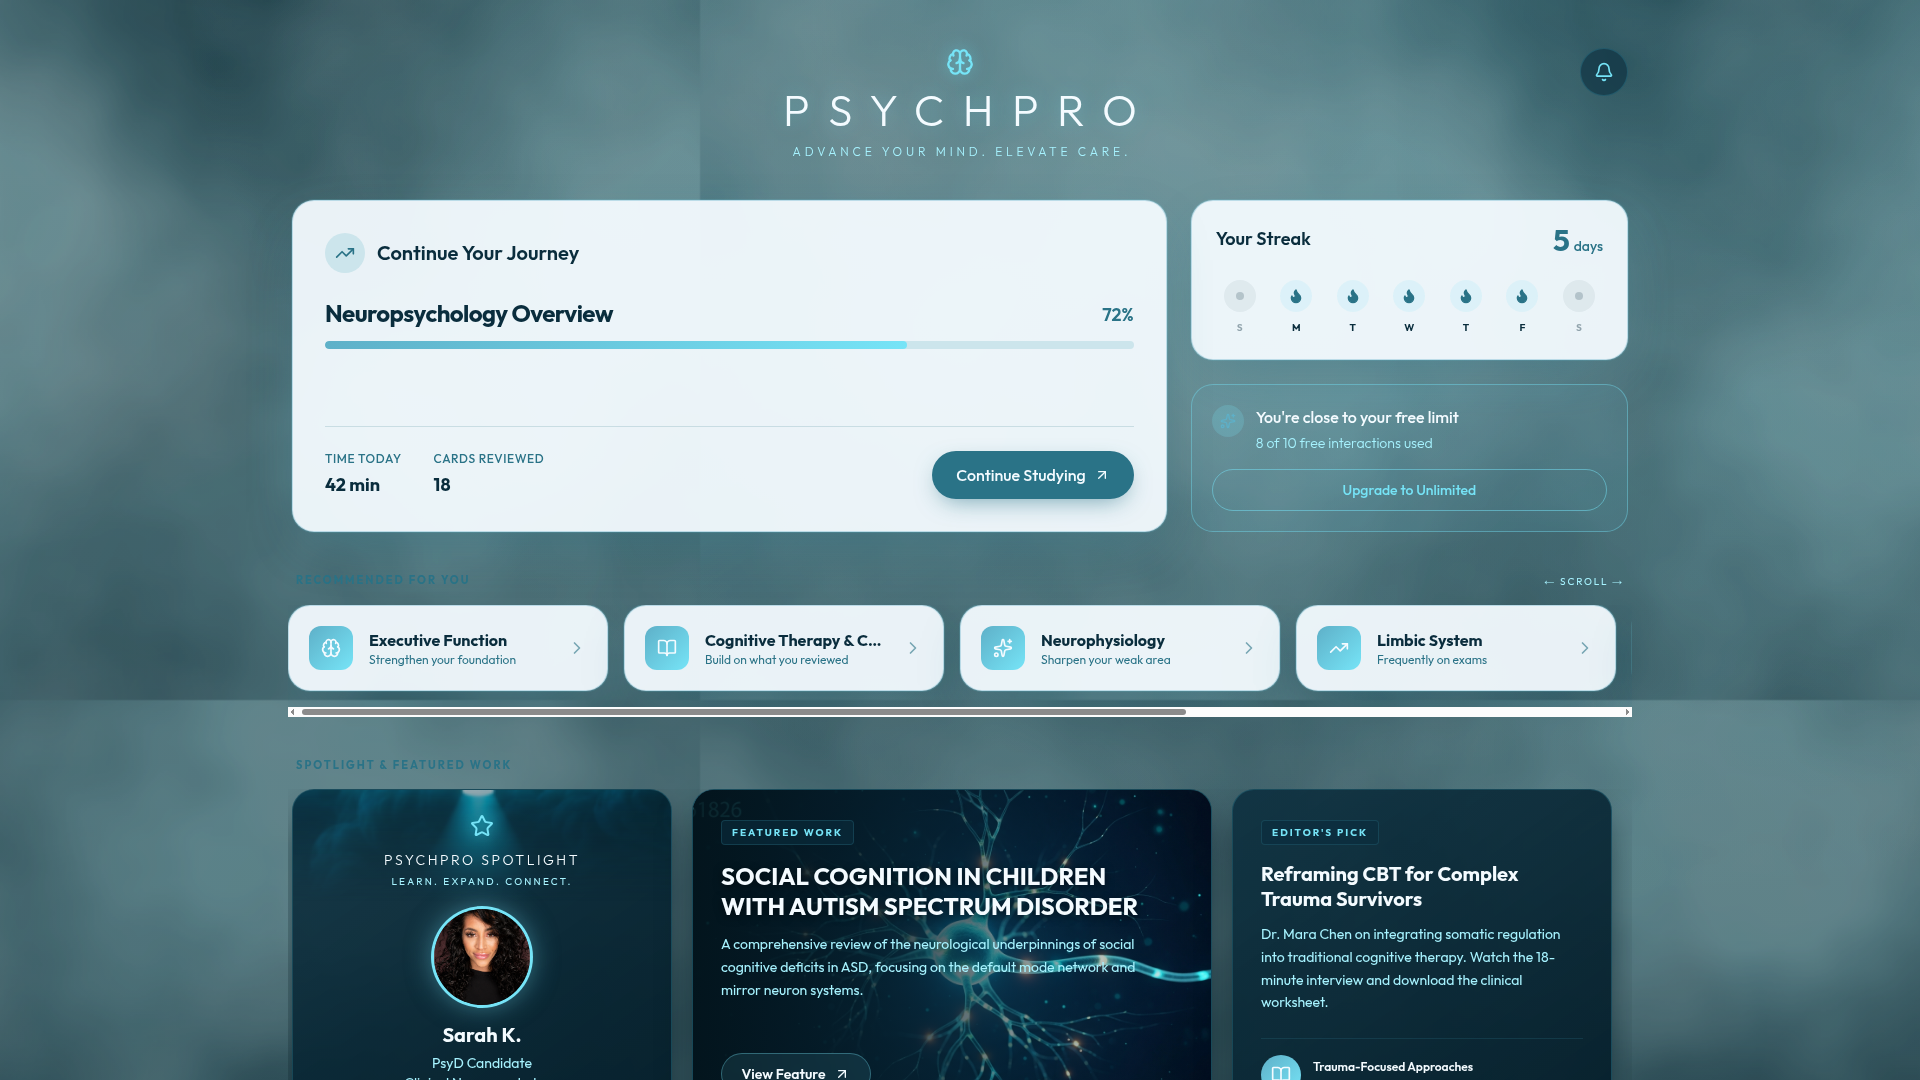
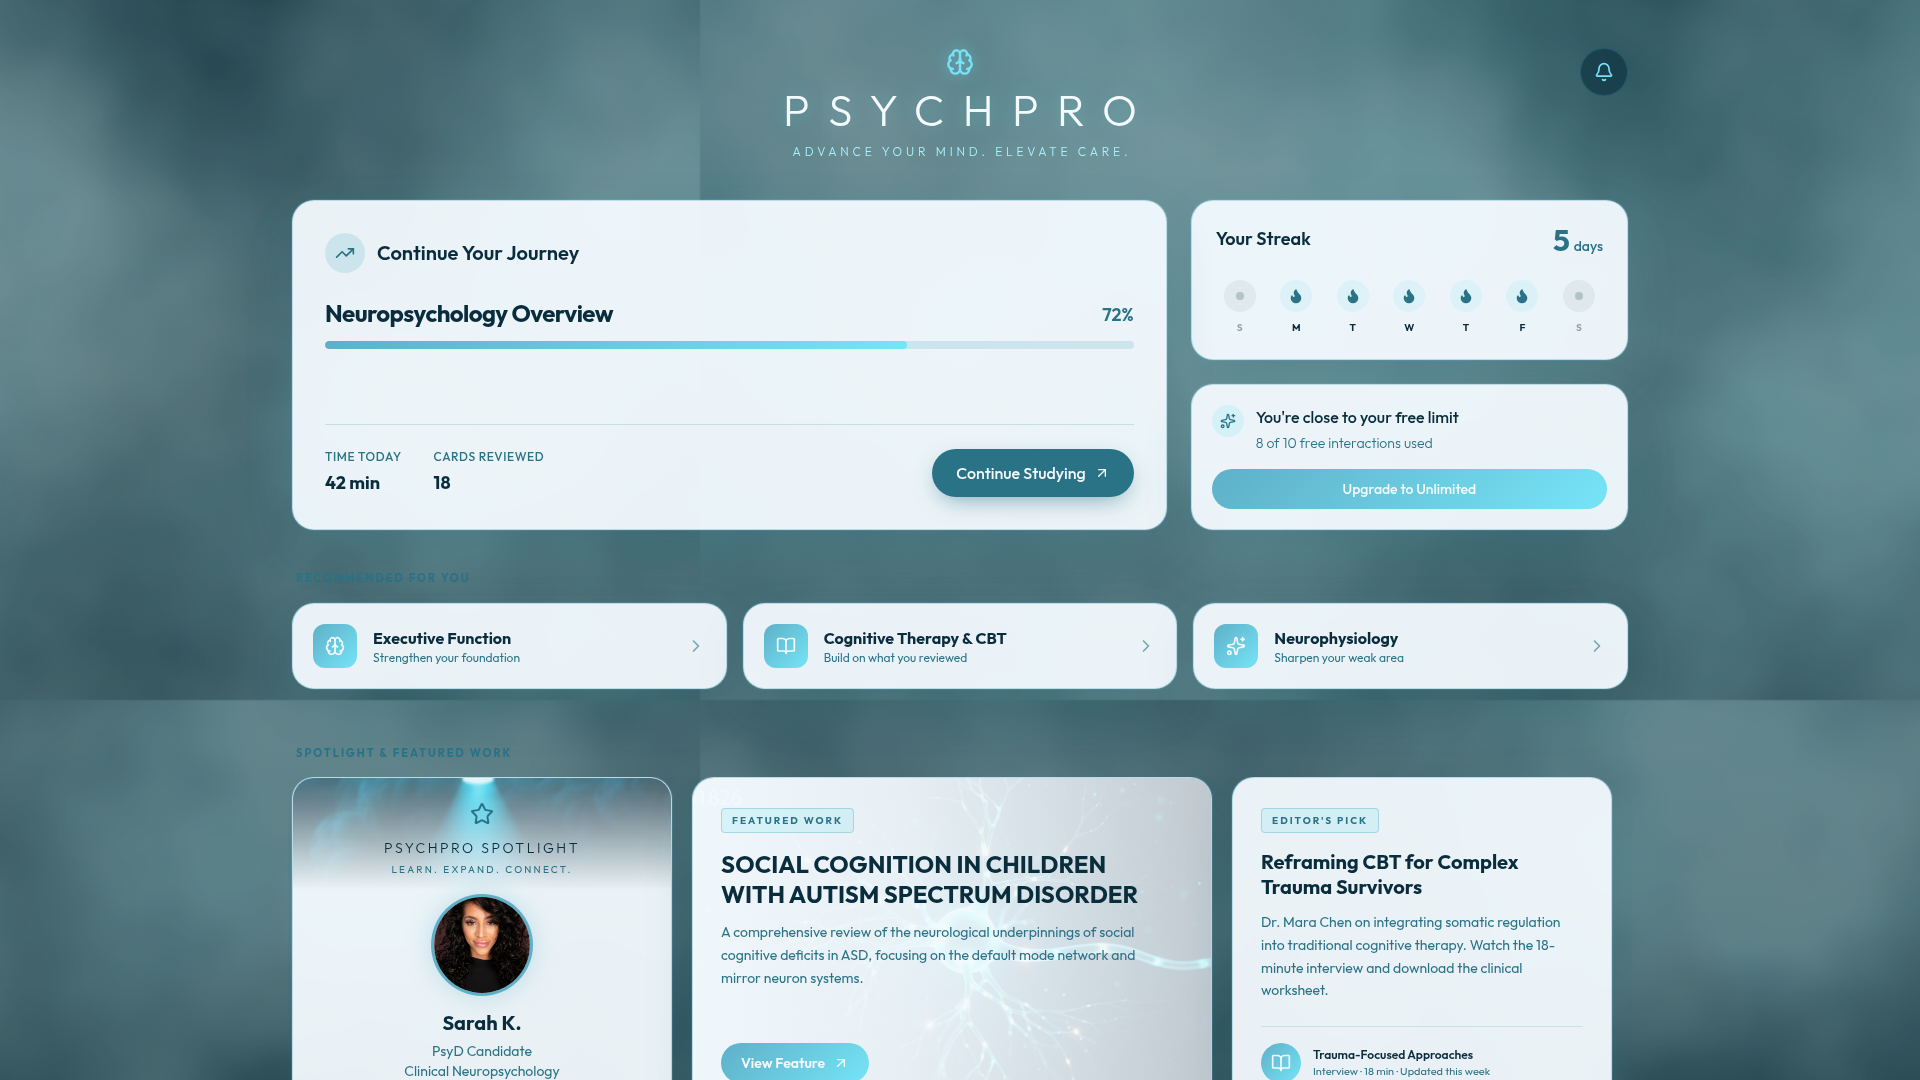
Task #70: Bold-polish landing + dashboard variants on canvas
Created two single-file mockup variants of the PsychPro app in the
mockup-sandbox artifact and placed them as live iframes on the canvas:
  - artifacts/mockup-sandbox/src/components/mockups/psychpro-polished/Landing.tsx
  - artifacts/mockup-sandbox/src/components/mockups/psychpro-polished/Dashboard.tsx

Landing variant: brighter cloud-tile filter handoff, new "all-in-one
platform" body tagline, 4-up frosted feature cards (equal-height),
compressed trust-stats hairline band, upgraded testimonial card
(portrait left, quote right, cyan glow border), polished glass nav and
CTA pills.

Dashboard variant: removed "Welcome back" greeting, promoted PSYCHPRO
editorial wordmark anchor with brain icon, lighter scrim over matching
cloud-tile filter, 2-col above-the-fold (Continue left, Streak+banner
stack right), 3-up Recommended row, Spotlight strip with neuron bg,
analytics chart, recent activity, achievements.

Canvas: two 1280x900 iframes placed to the right of the user-selected
PsychPro frame, 80px gap, top-aligned. Both presented via
presentArtifact.

Production code untouched (artifacts/neuronotes/* not modified) per
task scope. STUDY_PALETTE-only colors after architect review.

Pre-existing artifacts/api-server EADDRINUSE failure is unrelated.

diff --git a/artifacts/mockup-sandbox/src/components/mockups/psychpro-polished/Dashboard.tsx b/artifacts/mockup-sandbox/src/components/mockups/psychpro-polished/Dashboard.tsx
@@ -21,14 +21,6 @@ import {
 import { STUDY_PALETTE as P } from "@neuronotes/lib/study-theme";
 import { LightCard, LIGHT_CARD_STYLE as CARD_LIGHT } from "./_shared/LightCard";
 
-const CARD_DARK = {
-  background:
-    "linear-gradient(145deg, rgba(10,45,61,0.85), rgba(6,31,43,0.96))",
-  border: `1px solid rgba(42,115,135,0.45)`,
-  boxShadow: "0 20px 40px -10px rgba(3,21,29,0.8)",
-  borderRadius: 22,
-} as const;
-
 const BRAND_GRADIENT = `linear-gradient(135deg, ${P.teal}, ${P.surf})`;
 
 function SectionLabel({ children }: { children: React.ReactNode }) {
@@ -289,31 +281,24 @@ export function Dashboard() {
             </div>
 
             {/* Banner */}
-            <div
-              className="p-5 flex flex-col gap-4"
-              style={{
-                background: "rgba(94,176,200,.12)",
-                border: "1px solid rgba(118,228,247,.4)",
-                borderRadius: 22,
-              }}
-            >
+            <LightCard className="p-5 flex flex-col gap-4">
               <div className="flex gap-3">
                 <div
                   className="w-8 h-8 rounded-full flex items-center justify-center shrink-0"
                   style={{ background: `${P.surf}33` }}
                 >
-                  <Sparkles className="w-4 h-4" style={{ color: P.teal }} />
+                  <Sparkles className="w-4 h-4" style={{ color: P.tealDeep }} />
                 </div>
                 <div>
                   <h4
                     className="font-medium mb-1"
-                    style={{ color: P.cloud }}
+                    style={{ color: P.surface }}
                   >
                     You're close to your free limit
                   </h4>
                   <p
                     className="text-sm font-light"
-                    style={{ color: P.mist }}
+                    style={{ color: P.tealDeep }}
                   >
                     8 of 10 free interactions used
                   </p>
@@ -322,36 +307,22 @@ export function Dashboard() {
               <button
                 className="w-full py-2.5 rounded-full font-medium text-sm transition-colors"
                 style={{
-                  border: `1px solid ${P.surf}80`,
-                  color: P.surf,
-                  background: "transparent",
+                  background: BRAND_GRADIENT,
+                  color: P.cloud,
                 }}
               >
                 Upgrade to Unlimited
               </button>
-            </div>
+            </LightCard>
           </div>
         </div>
 
         {/* Recommended — horizontal-scroll carousel */}
         <div className="mb-10">
-          <div className="flex items-end justify-between mb-4 ml-1 pr-1">
-            <h3
-              className="text-[11px] font-bold uppercase"
-              style={{ color: P.tealDeep, letterSpacing: "0.18em" }}
-            >
-              Recommended For You
-            </h3>
-            <span
-              className="text-[10px] uppercase"
-              style={{ color: P.mist, letterSpacing: "0.18em" }}
-            >
-              ← scroll →
-            </span>
-          </div>
+          <SectionLabel>Recommended For You</SectionLabel>
 
           <div
-            className="flex gap-4 overflow-x-auto pb-4 -mx-1 px-1 snap-x snap-mandatory"
+            className="grid grid-cols-1 sm:grid-cols-2 lg:grid-cols-3 gap-4 lg:overflow-visible overflow-x-auto pb-4 snap-x snap-mandatory"
             style={{ scrollbarWidth: "thin" }}
           >
             {[
@@ -370,26 +341,10 @@ export function Dashboard() {
                 desc: "Sharpen your weak area",
                 icon: Sparkles,
               },
-              {
-                title: "Limbic System",
-                desc: "Frequently on exams",
-                icon: TrendingUp,
-              },
-              {
-                title: "Psychopharmacology",
-                desc: "High-yield clinical topic",
-                icon: Activity,
-              },
-              {
-                title: "Validity & Effort Testing",
-                desc: "Round out assessment",
-                icon: ShieldCheck,
-              },
             ].map((item, i) => (
-              <div
+              <LightCard
                 key={i}
-                className="p-5 flex items-center gap-4 cursor-pointer hover:-translate-y-0.5 transition-transform duration-300 group shrink-0 snap-start"
-                style={{ ...CARD_LIGHT, width: 320 }}
+                className="p-5 flex items-center gap-4 cursor-pointer hover:-translate-y-0.5 transition-transform duration-300 group snap-start"
               >
                 <div
                   className="w-11 h-11 rounded-xl flex items-center justify-center shrink-0"
@@ -418,7 +373,7 @@ export function Dashboard() {
                   className="w-5 h-5 transition-colors"
                   style={{ color: `${P.tealDeep}99` }}
                 />
-              </div>
+              </LightCard>
             ))}
           </div>
         </div>
@@ -431,12 +386,12 @@ export function Dashboard() {
             style={{ scrollbarWidth: "thin" }}
           >
             {/* Card 1: Spotlight person */}
-            <div
+            <LightCard
               className="relative overflow-hidden shrink-0 snap-start"
-              style={{ ...CARD_DARK, width: 380 }}
+              style={{ width: 380 }}
             >
               <div
-                className="absolute top-0 left-0 right-0 h-28 opacity-60"
+                className="absolute top-0 left-0 right-0 h-28 opacity-70"
                 style={{
                   backgroundImage:
                     "url(/__mockup/images/spotlight_cloud.png)",
@@ -452,26 +407,26 @@ export function Dashboard() {
                 <Star
                   className="w-6 h-6 mb-3"
                   style={{
-                    color: P.surf,
-                    filter: "drop-shadow(0 0 8px rgba(118,228,247,.6))",
+                    color: P.tealDeep,
+                    filter: "drop-shadow(0 0 8px rgba(94,176,200,.5))",
                   }}
                 />
                 <h4
                   className="text-sm font-light uppercase mb-1"
-                  style={{ color: P.cloud, letterSpacing: "0.18em" }}
+                  style={{ color: P.surface, letterSpacing: "0.18em" }}
                 >
                   PsychPro Spotlight
                 </h4>
                 <p
                   className="text-[10px] mb-5"
-                  style={{ color: P.mist, letterSpacing: "0.22em" }}
+                  style={{ color: P.tealDeep, letterSpacing: "0.22em" }}
                 >
                   LEARN. EXPAND. CONNECT.
                 </p>
                 <div
                   className="w-24 h-24 rounded-full overflow-hidden mb-4"
                   style={{
-                    boxShadow: `0 0 0 3px ${P.surf}, 0 0 28px rgba(118,228,247,.5)`,
+                    boxShadow: `0 0 0 3px ${P.teal}, 0 0 28px rgba(94,176,200,.4)`,
                   }}
                 >
                   <img
@@ -482,28 +437,28 @@ export function Dashboard() {
                 </div>
                 <h3
                   className="text-xl font-bold mb-1"
-                  style={{ color: P.cloud }}
+                  style={{ color: P.surface }}
                 >
                   Sarah K.
                 </h3>
                 <p
                   className="text-sm"
-                  style={{ color: P.mist }}
+                  style={{ color: P.tealDeep }}
                 >
                   PsyD Candidate
                   <br />
                   Clinical Neuropsychology
                 </p>
               </div>
-            </div>
+            </LightCard>
 
             {/* Card 2: Featured Work */}
-            <div
+            <LightCard
               className="relative overflow-hidden shrink-0 snap-start"
-              style={{ ...CARD_DARK, width: 520 }}
+              style={{ width: 520 }}
             >
               <div
-                className="absolute inset-0 z-0"
+                className="absolute inset-0 z-0 opacity-40"
                 style={{
                   backgroundImage:
                     "url(/__mockup/images/spotlight_neuron.png)",
@@ -514,7 +469,7 @@ export function Dashboard() {
               <div
                 className="absolute inset-0 z-0"
                 style={{
-                  background: `linear-gradient(to right, ${P.ink}f0, ${P.bg}cc 40%, transparent)`,
+                  background: `linear-gradient(to right, ${P.cloud}f5, ${P.cloud}e0 40%, ${P.cloud}80)`,
                 }}
               />
               <div className="relative z-10 p-7 flex flex-col justify-between h-full min-h-[300px]">
@@ -522,27 +477,23 @@ export function Dashboard() {
                   <span
                     className="inline-block text-[10px] font-bold uppercase px-2.5 py-1 rounded mb-4"
                     style={{
-                      color: P.surf,
-                      background: "rgba(10,45,61,0.6)",
-                      border: `1px solid ${P.steel}55`,
+                      color: P.tealDeep,
+                      background: `${P.surf}33`,
+                      border: `1px solid ${P.teal}66`,
                       letterSpacing: "0.2em",
-                      backdropFilter: "blur(4px)",
                     }}
                   >
                     FEATURED WORK
                   </span>
                   <h3
                     className="text-2xl font-bold mb-3 leading-tight max-w-md"
-                    style={{
-                      color: P.cloud,
-                      textShadow: "0 2px 8px rgba(0,0,0,0.6)",
-                    }}
+                    style={{ color: P.surface }}
                   >
                     SOCIAL COGNITION IN CHILDREN WITH AUTISM SPECTRUM DISORDER
                   </h3>
                   <p
                     className="text-sm max-w-md leading-relaxed mb-6"
-                    style={{ color: P.mist }}
+                    style={{ color: P.tealDeep }}
                   >
                     A comprehensive review of the neurological underpinnings of
                     social cognitive deficits in ASD, focusing on the default
@@ -552,29 +503,27 @@ export function Dashboard() {
                 <button
                   className="self-start px-5 py-2.5 rounded-full text-sm font-semibold flex items-center gap-2 transition-all"
                   style={{
-                    background: `${P.surf}1a`,
-                    border: `1px solid ${P.surf}55`,
+                    background: BRAND_GRADIENT,
                     color: P.cloud,
-                    backdropFilter: "blur(6px)",
                   }}
                 >
                   View Feature
                   <ArrowUpRight className="w-4 h-4" />
                 </button>
               </div>
-            </div>
+            </LightCard>
 
             {/* Card 3: Editor's Pick */}
-            <div
+            <LightCard
               className="relative overflow-hidden shrink-0 snap-start p-7"
-              style={{ ...CARD_DARK, width: 380 }}
+              style={{ width: 380 }}
             >
               <span
                 className="inline-block text-[10px] font-bold uppercase px-2.5 py-1 rounded mb-4"
                 style={{
-                  color: P.surf,
-                  background: "rgba(10,45,61,0.6)",
-                  border: `1px solid ${P.steel}55`,
+                  color: P.tealDeep,
+                  background: `${P.surf}33`,
+                  border: `1px solid ${P.teal}66`,
                   letterSpacing: "0.2em",
                 }}
               >
@@ -582,13 +531,13 @@ export function Dashboard() {
               </span>
               <h3
                 className="text-xl font-bold mb-3 leading-tight"
-                style={{ color: P.cloud }}
+                style={{ color: P.surface }}
               >
                 Reframing CBT for Complex Trauma Survivors
               </h3>
               <p
                 className="text-sm mb-6 leading-relaxed"
-                style={{ color: P.mist }}
+                style={{ color: P.tealDeep }}
               >
                 Dr. Mara Chen on integrating somatic regulation into traditional
                 cognitive therapy. Watch the 18-minute interview and download
@@ -596,7 +545,7 @@ export function Dashboard() {
               </p>
               <div
                 className="flex items-center gap-3 pt-4"
-                style={{ borderTop: `1px solid ${P.steel}40` }}
+                style={{ borderTop: `1px solid ${P.teal}40` }}
               >
                 <div
                   className="w-10 h-10 rounded-full flex items-center justify-center"
@@ -610,19 +559,19 @@ export function Dashboard() {
                 <div className="flex-1 min-w-0">
                   <p
                     className="text-xs font-semibold truncate"
-                    style={{ color: P.cloud }}
+                    style={{ color: P.surface }}
                   >
                     Trauma-Focused Approaches
                   </p>
                   <p
                     className="text-[11px] truncate"
-                    style={{ color: P.mist }}
+                    style={{ color: P.tealDeep }}
                   >
                     Interview · 18 min · Updated this week
                   </p>
                 </div>
               </div>
-            </div>
+            </LightCard>
           </div>
         </div>
 